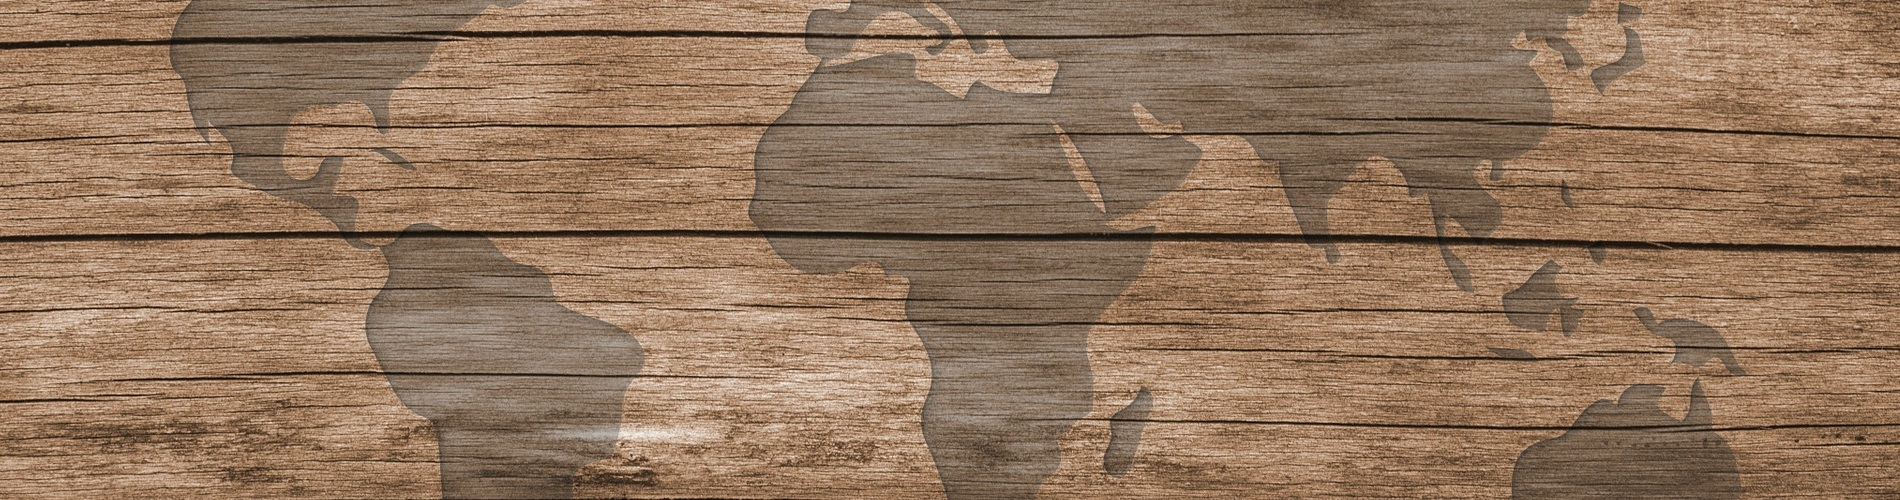
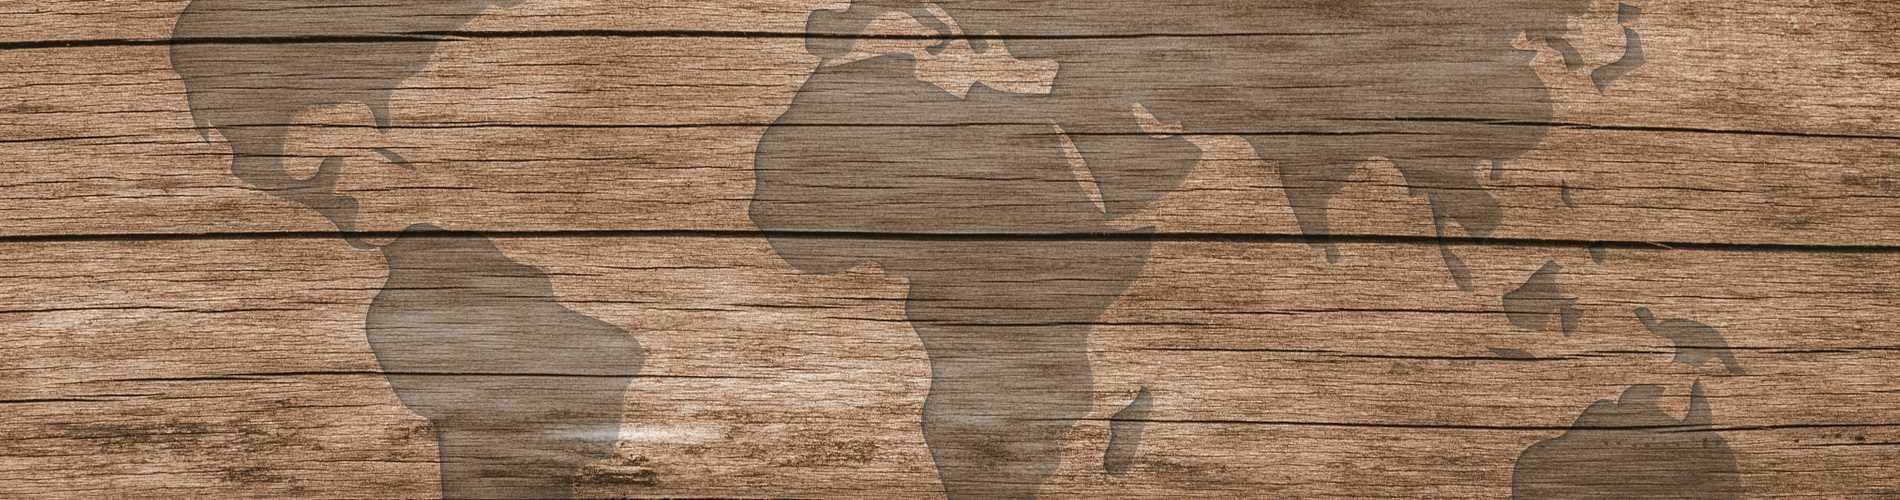
Reduced image sizes

diff --git a/_includes/_footer.html b/_includes/_footer.html
@@ -12,4 +12,4 @@
 </div><!-- /.google-ads -->
 {% endif %}
 
-<span>&copy; {{ site.time | date: '%Y' }} {{ site.owner.name }}.
+<span>&copy; {{ site.time | date: '%Y' }} {{ site.owner.name }}
